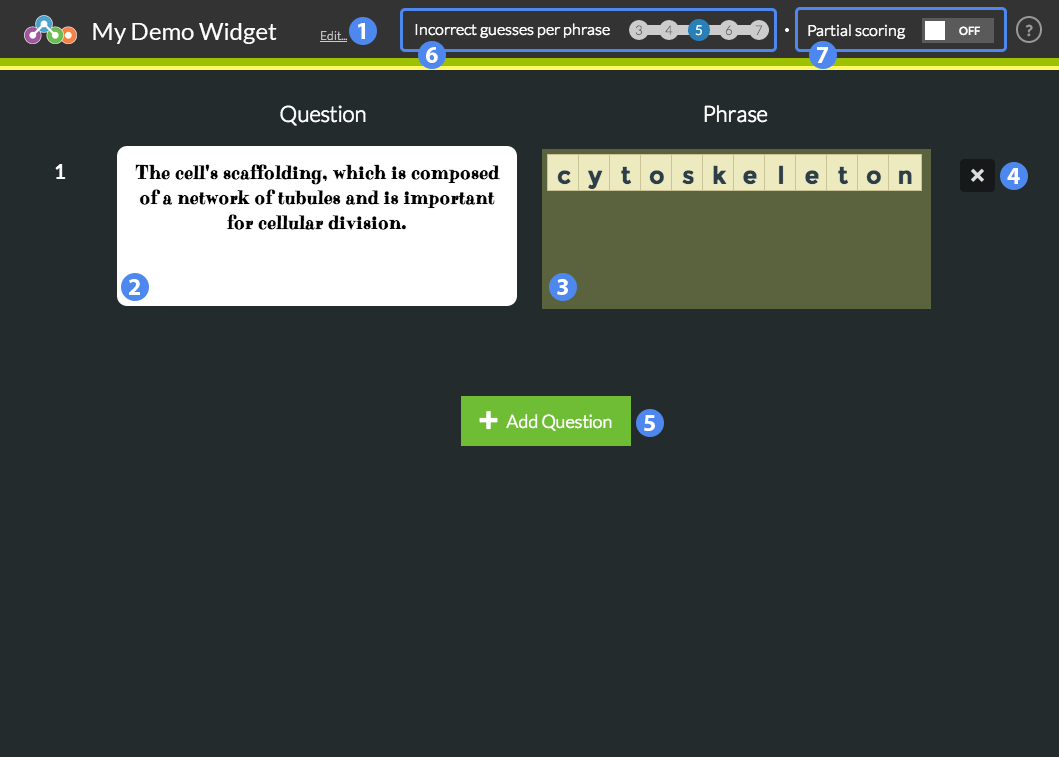
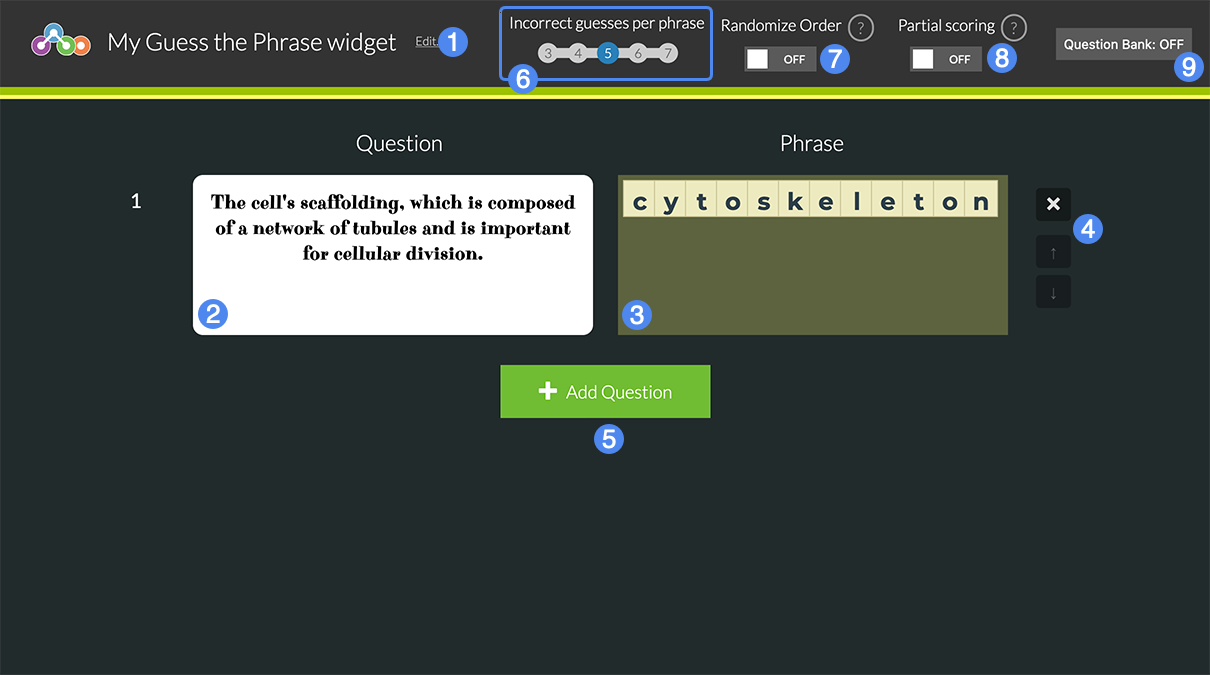
Fixes scorescreen file capitalization. Updates creator guide with question bank feature.

Changed region(s): [[0.0, 0.0, 1.0, 0.6844], [0.0312, 0.2178, 0.0623, 0.2489]]

diff --git a/src/_guides/creator.md b/src/_guides/creator.md
@@ -7,17 +7,23 @@ Students are provided with a clue and must guess the word or phrase letter-by-le
 1. Title of the widget
 2. Question (clue) text
 3. Word or phrase to be guessed
-4. Delete question
+4. Delete or reorder question
 5. Add a new question
 6. Incorrect letter guesses allowed per question
-7. Toggle partial scoring
+7. Toggle randomize question order
+8. Toggle partial scoring
+9. Question bank options
 
 ## Details
 
 Students guess the word or phrase by selecting individual letters. Letters that are a part of the word or phrase will be revealed once selected; incorrect letters will increment the incorrect guess count. After reaching the incorrect guess limit, the question is marked as wrong.
 
-### Scoring ###
+### Scoring
 
 By default questions will be granted either full or no credit: if the word or phrase is completed without reaching the incorrect guess limit, the question is given full credit. If the guess limit is reached, the question is given no credit.
 
 **Partial Scoring** will grant a certain percentage in credit for every correctly guessed letter, even if the incorrect guess limit is reached and the word or phrase is incomplete.
+
+### Question Bank
+
+When enabled, the player will select a subset of the total questions based on the value entered. These questions are chosen at random every time a new play is initialized. Note that when enabled, the question bank setting overrides the randomize order setting.
